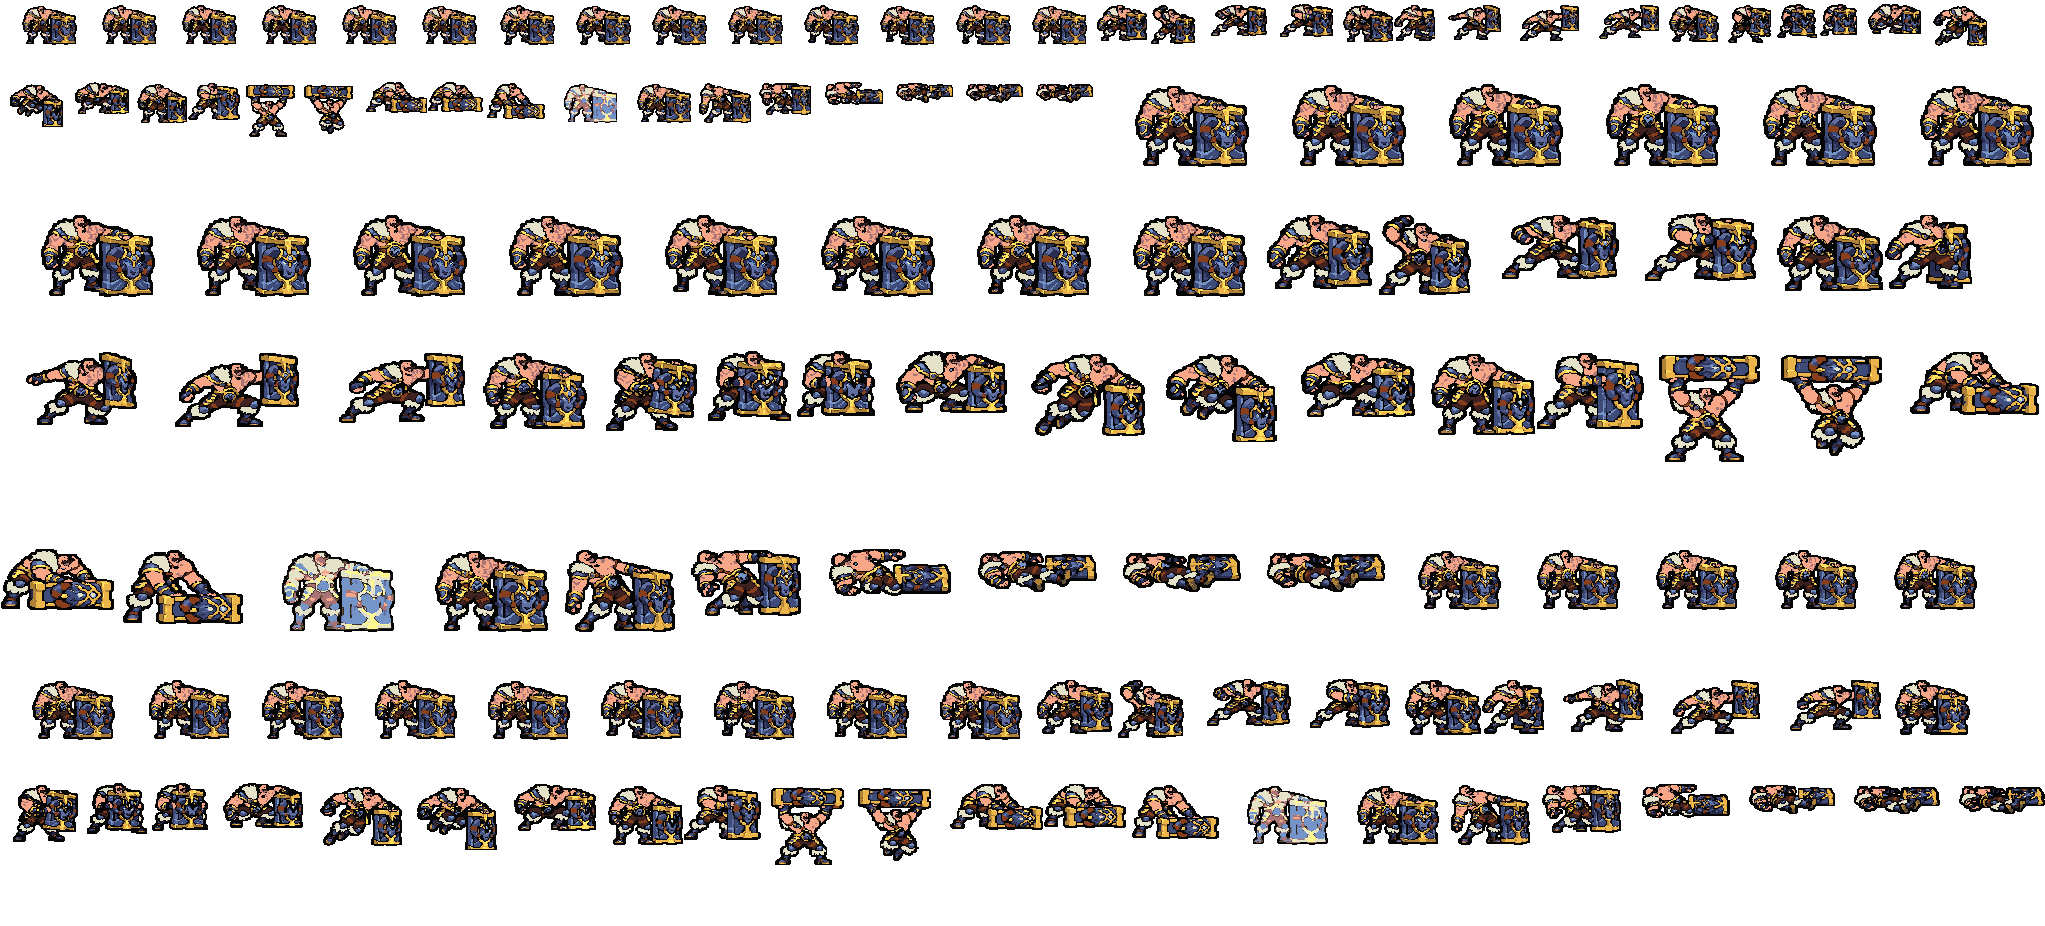
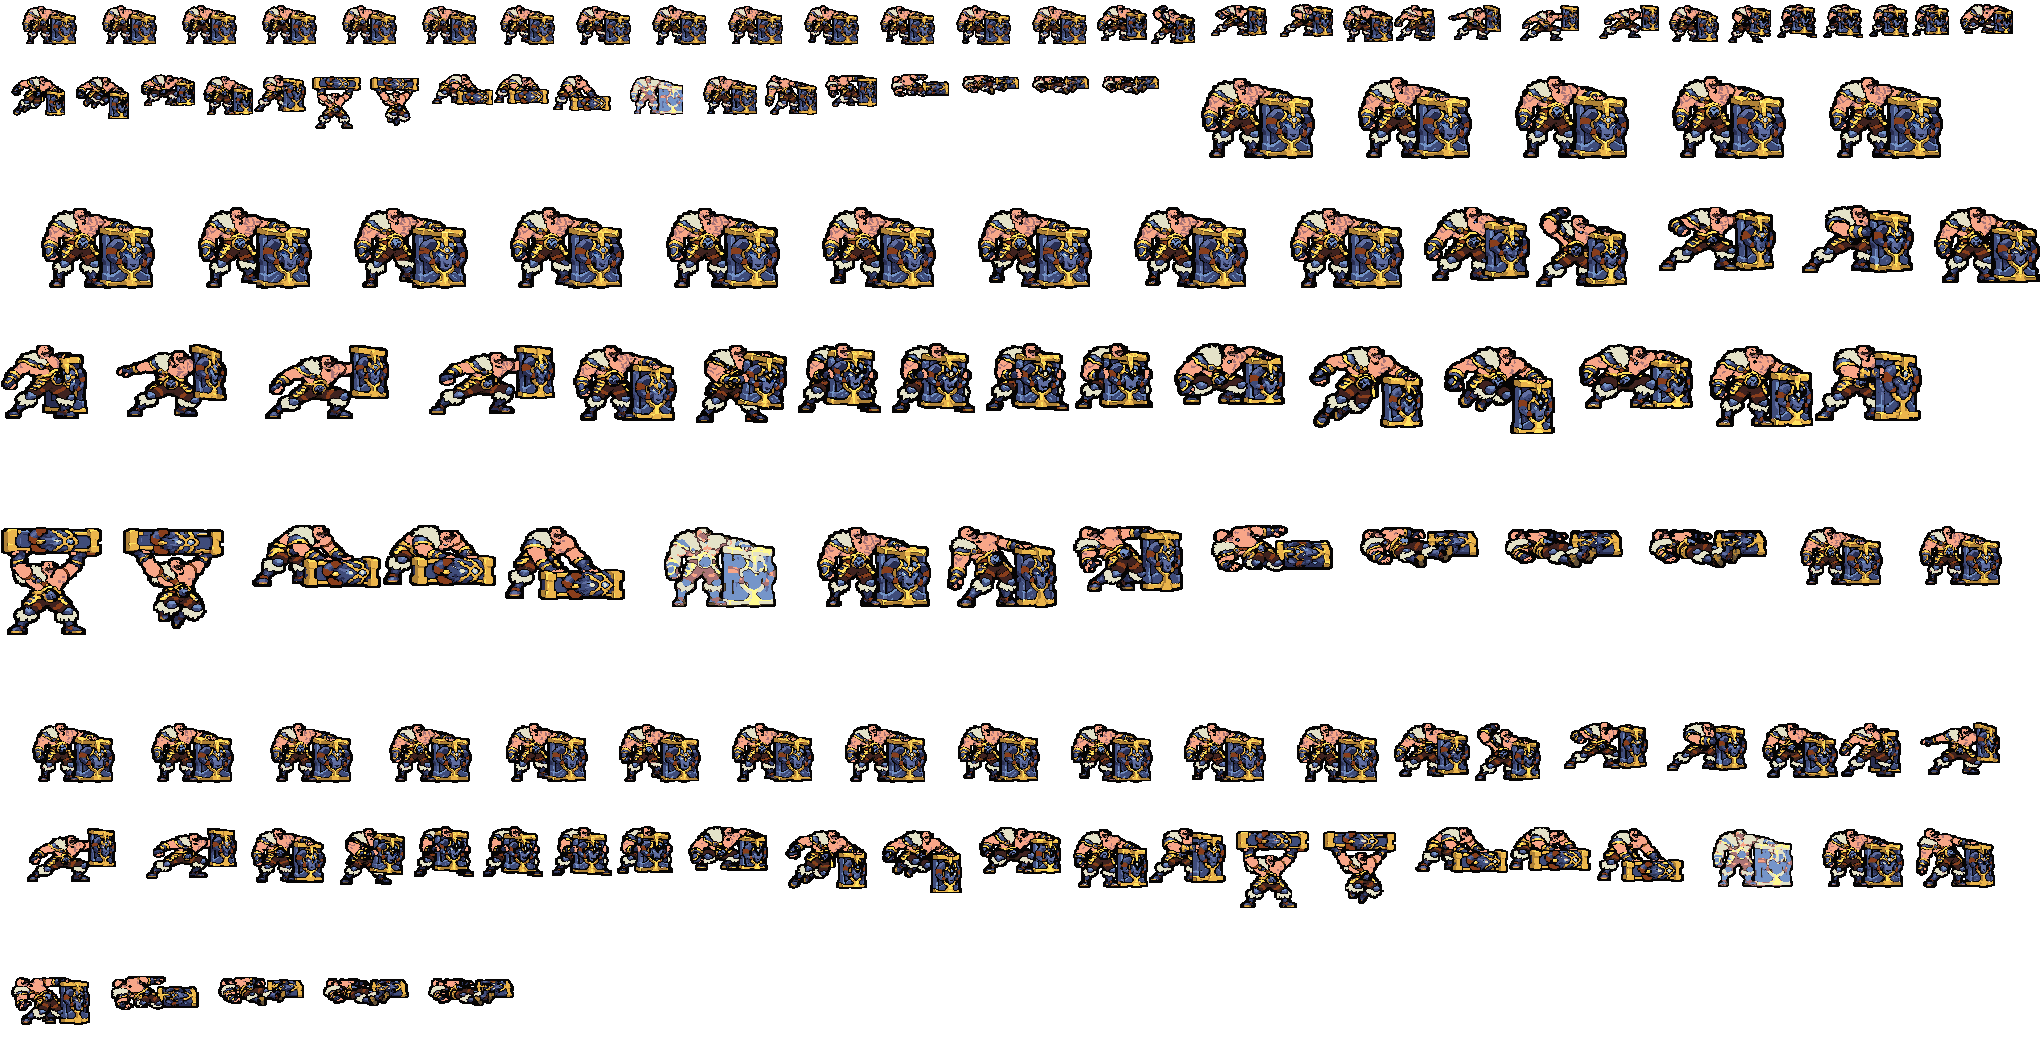
布隆动作补帧：E 坚不可摧 3 帧 3 姿势 -> 5 帧 5 姿势（盾从头和手后面往上滑、除了腿整个人往下沉；中间帧用他自己的原帧做）
用户：「还有有的动画感觉只有一帧 不如oppi的地方都要补 参考联盟的动画」，又说「动画你觉得少的地方就想办法补」「能改就想办法改 全都要改」，
现在「剩下的一批英雄也做了啊 都做完了装进去了再测」。对照表里 E 举盾 3 帧 0.4 秒（技能数据 e_anim 24 tick，效果都在第 0 tick，
帧上没有判定）。没有新画，没有交给 Codex，没有用图像模型。数法：「几帧，其中几个不同的姿势」。

- tools/art/rig_braum.py（干净的树上五步 rig -> ppu_restyle -> ppu_hd -> ppu_one -> hero_reels 逐文件复现，332325b6f）：
  E 的两张中间帧都用双手架盾那张（skill2_2）做，e_frames() 出五帧：
  提盾在身侧 80 | e_lifted：盾高 5 格、往身前落 60（盾整块从贴上去的造型头和两只手后面往上滑，手还握在原来画的位置；手挡住的
  那段盾边按手上方那格往下接 5 格，只有这几格不是原画；inbetween.repose 收描边）| 双手架盾 60 | e_sunk：除了腿和靴子
  （E_LEGS）整个人连盾往下沉 3 格、盖在腿上 60（蹲到一半，没有一格是补画的）| 撑住 140，一共还是 400。
  sealed()：外描边加粗（thick）会围住的 1 格小缝先并进描边。每帧核对：抬盾那张除了盾逐格没变，下沉那张移动的部分一格没丢
- tools/art/ppu_restyle.py：只改布隆那一项，加 palette_fit={"skill2": "braum/skill2_palette_orig"}——画风统一的 crisp
  调色板还按原来那三张 E 取（参考条 assets/source/braum/skill2_palette_orig.png / .json = 上一次提交里 orig 的 E 条），
  不加的话调色板跟着新帧变，待机、跑、Q、W、R 的颜色全都会挪一点
- tools/art/hero_reels.json：布隆的待机剪 E 的 [0, 1] -> [0, 2]（还是提盾、架盾那两张，待机逐帧没变）；选人卡片还是
  普攻、Q、E、R（35 -> 37 帧，一圈还是 15220 毫秒）
- 图集和 fanim 重新生成：2045x926 -> 2040x1044；其余 8 个标签（连同 hd_、lo_ 和待机共 27 个）逐帧像素、时长都没变；
  选人格子用的那张 1.64 -> 1.75 MiB
- docs/heroes/league_braum.md「开发记录」加一行

不满意的地方：E 只多了盾的上下和身体的下沉，两张中间帧都是同一张画（skill2_2）挪出来的；抬盾那张盾底和远侧靴子之间的空隙被加粗的
外描边连成一块黑（像盾下的影子）；提盾（skill2_1）到落盾那一下身体一次蹲下 14 格（那 80 毫秒分不出两张 50 毫秒以上的帧）。

查过：hero_reels --check --hero braum（0）；新旧图集逐帧对比（compare_sheets：27 个标签逐帧没变，E 总长 400 不变）；
sheet_audit（E 五帧没有针孔）；ui_sheets（bp 303.4 / 768 MiB）；league_viego_soul make_override 和 --check；
[…]

diff --git a/tools/art/rig_braum.py b/tools/art/rig_braum.py
@@ -38,6 +38,7 @@ sys.path.insert(0, os.path.join(ROOT, ".claude", "skills", "tfm2-hero-mod", "scr
 sys.path.insert(0, HERE)
 import strips as G  # noqa: E402
 import import_braum_strips as I  # noqa: E402
+import inbetween as IB  # noqa: E402
 
 PPU = 121 / 42                    # 2.881: the design's 121 rows = 42 game rows
 FEET = 11                         # 1x rows from the pivot down to the soles (the pack's 128-canvas heroes)
@@ -209,8 +210,129 @@ def lower(hd):
     return out
 
 
+# E Unbreakable (skill2, 400 ms = the kit's e_anim 24 ticks, every effect at tick 0 - no tick on a frame): three drawn
+# frames - the shield lifted beside him (skill2_1), held in front with both hands (skill2_2), braced on the ground
+# (skill2_3). The user, 2026-11-14: 「有的动画感觉只有一帧 不如oppi的地方都要补 参考联盟的动画」; two in-betweens from
+# skill2_2 itself, nothing drawn: the shield on its way down in front of him (it is E_LIFT rows higher, sliding up
+# behind his head and his hands, which hold it where they are drawn) and the brace half way (all of him but the legs
+# E_SINK rows lower over them, the shield with him). The shield's top bar lies behind the pasted design head
+# (import_braum_strips.paste_head) and its edges under the hands: the squares a hand hides are the edge's stripe
+# continued from the square above the hand (the only squares not as drawn, E_LIFT rows over each hand).
+E_LIFT = 5
+E_SINK = 3
+E_SHIELD = [(102, 115, 157, 127), (100, 128, 155, 185), (97, 186, 156, 196), (97, 197, 139, 198)]   # boxes in skill2_2
+E_NEAR = (99, 135, 111, 156)      # the near hand on the shield's left edge (its skin, and the outline touching it)
+E_WRIST = (96, 138, 101, 156)     # the near bracer's end over the shield's outline
+E_FAR = (149, 138, 161, 157)      # the far hand round the shield's right edge (skin, its brown cuff, their outline)
+E_GLOVE = (157, 138, 161, 157)    # the far hand right of the shield's edge
+E_LEGS = [(64, 161, 99, 205), (155, 164, 166, 196), (141, 196, 166, 205)]   # what stays when he sinks: legs, boots
+E_SKIN = {(252, 174, 138), (237, 142, 115), (209, 118, 100), (171, 94, 84), (131, 86, 88), (237, 209, 204)}
+E_BROWN = {(149, 75, 39), (114, 56, 30), (77, 38, 22), (42, 26, 18), (65, 42, 43)}
+E_MS = IB.spans((80, 1), (120, 2), (200, 2, (60, 140)))     # skill2_1 | lifted, skill2_2 | sinking, skill2_3
+
+
+def _box(shape, x0, y0, x1, y1):
+    m = np.zeros(shape[:2], bool)
+    m[y0:y1 + 1, x0:x1 + 1] = True
+    return m
+
+
+def _colours(a, cols):
+    m = np.zeros(a.shape[:2], bool)
+    for c in cols:
+        m |= (a[..., :3] == np.array(c)).all(-1)
+    return m & (a[..., 3] > 0)
+
+
+def design_head_at(a):
+    """The mask of the design's head where import_braum_strips pasted it on frame a (every square of it as pasted)."""
+    p, m = I.head_patch(I.load(I.DESIGN))
+    h, w = m.shape
+    for y in range(a.shape[0] - h):
+        for x in range(a.shape[1] - w):
+            if ((a[y:y + h, x:x + w] == p).all(-1) | ~m).all():
+                out = np.zeros(a.shape[:2], bool)
+                out[y:y + h, x:x + w] = m
+                return out
+    raise SystemExit("rig_braum: the design's head is not on this frame")
+
+
+def e_front(a):
+    """skill2_2's parts drawn over the shield: the head and the two hands."""
+    op = a[..., 3] > 0
+    dark = (a[..., :3].astype(int).sum(-1) < 40) & op
+    ring = np.ones((3, 3), bool)
+    skin, brown = _colours(a, E_SKIN), _colours(a, E_BROWN)
+    near = _box(a.shape, *E_NEAR) & skin
+    near |= _box(a.shape, *E_NEAR) & dark & ndimage.binary_dilation(near, structure=ring)
+    near |= _box(a.shape, *E_WRIST) & op
+    far = _box(a.shape, *E_FAR) & (skin | brown)
+    far |= _box(a.shape, *E_FAR) & dark & ndimage.binary_dilation(far, structure=ring)
+    far |= _box(a.shape, *E_GLOVE) & op
+    return design_head_at(a), near, far
+
+
+def sealed(a, most=3):
+    """Gaps of at most `most` squares that the thick outer outline (thick) would close in - a moved part next to a leg
+    leaves one - taken into the outline here."""
+    op = a[..., 3] > 0
+    grown = thick(a)[..., 3] > 0
+    lab, n = ndimage.label(ndimage.binary_fill_holes(grown) & ~grown)
+    out = a.copy()
+    for j in range(1, n + 1):
+        hole = lab == j
+        if hole.sum() <= most and not (hole & op).any():
+            out[hole, :3] = OUTLINE
+            out[hole, 3] = 255
+    return out
+
+
+def e_lifted(a, k):
+    """skill2_2 with the shield k rows higher, behind the head and the hands (they stay as drawn)."""
+    head, near, far = e_front(a)
+    front = head | near | far
+    shield = np.zeros(a.shape[:2], bool)
+    for b in E_SHIELD:
+        shield |= _box(a.shape, *b)
+    shield &= (a[..., 3] > 0) & ~front & ~_colours(a, I.FUR)
+    layer = np.zeros_like(a)
+    layer[shield] = a[shield]
+    for x in range(a.shape[1]):             # the edge under a hand: the square above it continued k rows down
+        col = near[:, x] | far[:, x]
+        for y in np.nonzero(col)[0]:
+            if not col[y - 1] and shield[y - 1, x]:
+                for j in range(k):
+                    if col[y + j]:
+                        layer[y + j, x] = a[y - 1, x]
+    moves = [(shield, IB.moved(layer, 0, -k), "over")] + [(m, (0, 0), "over") for m in (head, near, far)]
+    out = IB.repose(a, moves, OUTLINE)
+    keep = (a[..., 3] > 0) & ~shield & ~front     # nothing but the shield moved
+    if not IB.kept(a, out, only=keep & ~IB.moved(layer, 0, -k)[..., 3].astype(bool)) or not IB.kept(a, out, only=front):
+        raise SystemExit("rig_braum: E's lifted shield changed something besides the shield")
+    return out
+
+
+def e_sunk(a, k):
+    """skill2_2 with all of him but the legs (E_LEGS) k rows lower, over the legs."""
+    legs = np.zeros(a.shape[:2], bool)
+    for b in E_LEGS:
+        legs |= _box(a.shape, *b)
+    up = (a[..., 3] > 0) & ~legs
+    out = IB.repose(a, [(up, (0, k), "over")], OUTLINE)
+    if not IB.kept(IB.moved(np.where(up[..., None], a, 0).astype(np.uint8), 0, k), out):
+        raise SystemExit("rig_braum: E's sinking frame lost a square of him")
+    return out
+
+
+def e_frames(load, fr):
+    """skill2: skill2_1, the shield lifted, skill2_2, sinking, skill2_3 (E_MS)."""
+    (n1, _), (n2, _), (n3, _) = fr["skill2"]
+    s1, s2, s3 = load(n1), load(n2), load(n3)
+    return list(zip((s1, sealed(e_lifted(s2, E_LIFT)), s2, sealed(e_sunk(s2, E_SINK)), s3), E_MS))
+
+
 def actions():
-    """{tag: [(hd canvas, ms)]}: the imported frames, the idle breathing."""
+    """{tag: [(hd canvas, ms)]}: the imported frames, the idle breathing, E's in-betweens."""
     fr = json.load(open(os.path.join(FRAMES, "frames.json"), encoding="utf-8"))
     load = lambda n: np.asarray(Image.open(os.path.join(FRAMES, n)).convert("RGBA")).copy()
     out = {}
@@ -223,6 +345,7 @@ def actions():
     out["run"] = [(walk_frame(idle, n_, f_, r_), WALK_MS) for n_, f_, r_ in WALK]
     for tag in ("attack", "skill", "skill2", "w_leap", "ult", "hit", "dead"):
         out[tag] = [(load(n), t) for n, t in fr[tag]]
+    out["skill2"] = e_frames(load, fr)
     return out
 
 

diff --git a/tools/art/ppu_restyle.py b/tools/art/ppu_restyle.py
@@ -83,7 +83,10 @@ RESTYLE = {
     # = 2.9 -> 3, 11.5 x 1.98 x (1 / 0.95 - 1 / 1.05) = 2.3 -> 2; faces x 1.00 / 1.15 and x 0.95 / 1.05 about the soles
     # then (game 0.6.4, 2026-10-14) 「铁男模型太小」「铁男到110%吧」: Mordekaiser 110 % - 11 x 2.0 x (1 / 1.10 - 1 / 1.15)
     # = 0.9 -> 1 square down from the 115 % frames, face (1, -27) x 1.10 about the soles
+    # palette_fit (2026-11-14, E's in-betweens from his own frames): the crisp palette still fit on E's three drawn frames
+    # as they were (rig_braum.py's orig strip before them), so no other frame of his changes colour
     "braum": dict(body_only=True, head=1.0, wide=1.2, short=0.94, edge=0, ppu=1.98, crisp={},
+                  palette_fit={"skill2": "braum/skill2_palette_orig"},
                   lift=4 * 2.881 / 1.98 - 1e-6, lift_sq=-2, face_to=(2, -40)),  # (a hair under: the pivot's row keeps its square)
     # 「铁男的走路步伐感觉有点大啊」: Codex's run had the soles 42 and 47.5 game px apart in its two striding frames (the
     # idle's 31), brought together here (narrow) until 2026-10-22; the run rig_mordekaiser.py draws since (「铁男的走路也要

diff --git a/docs/heroes/league_braum.md b/docs/heroes/league_braum.md
@@ -89,6 +89,7 @@
 | 特效 | Codex 生图的 18 张（用户贴来的两张总览图，`import_braum.py` 按卡萨丁的做法切格：每个特效一个缩放、颜色贴回冰蓝 / 霜白 / 金色三套配色；红色方的对称逐格检查：Q 的冰和 R 的冰浪上下对称，其余左右对称）：`league_braum_fx` 盾击打中、层数标记、眩晕雪花、冰壳碎开、追加伤害、Q 的冰 / 打中 / 脚下结冰、举盾寒气、盾后队友的盾牌徽记、W 起跳雪雾 / 落地冰环 / 护甲冰环、R 击飞；`league_braum_big` 举盾冰壳、R 砸地冲击波、冰浪、裂隙。W 的护甲加成两人共用一张，R 裂隙里的减速借 Q 的脚下结冰 |
 | 音效 | 英雄联盟的音效和配音（`tools/lol/extract_braum.py`）：盾击 / 打中、被动眩晕、Q 甩出 / 打中、E 举盾、W 起跳 / 落地、R 砸地 / 击飞；Q、W、E、R 各用他自己的技能台词（片段名 `league_braum_sfx_vo_*`，和声音名不同）。版权属于 Riot Games，**不提交到仓库**，按下面的命令在本地生成 |
 | 图标 | 官方技能图标（Q 寒冬之咬 / E 坚不可摧 / R 冰川裂隙，另有 W 挺身而出、被动），从本地客户端提取，缩到 64×64 |
+| 动作补帧（2026-11-14） | 用户：「还有有的动画感觉只有一帧 不如oppi的地方都要补 参考联盟的动画」，又说「动画你觉得少的地方就想办法补」「能改就想办法改 全都要改」。对照表里 E「坚不可摧」举盾只有 3 帧（3 个姿势）0.4 秒（技能数据的 24 tick，效果都在第 0 tick，帧上没有判定）。没有新画，也没交给 Codex：两张中间帧都用他自己双手架盾那张（skill2_2）做（[`tools/art/rig_braum.py`](../../tools/art/rig_braum.py) 的 `e_lifted`、`e_sunk`，[`tools/art/inbetween.py`](../../tools/art/inbetween.py) 的 `repose`），每帧核对动的部分以外逐格不变。下面写的是「几帧，其中几个不同的姿势」。**E 坚不可摧** 3 帧（3 个姿势）→ 5 帧，其中 5 个：盾提在身侧 80 毫秒；盾往身前落、还高 5 格 60（盾从头和两只手后面往上滑，手还握在原来画的位置；手挡住的那段盾边按手上方那格往下接，只有这几格不是原画）；双手架盾 60；除了腿整个人连盾往下沉 3 格（蹲到一半）60；撑住 140，一共还是 400 毫秒。头和盾都是原来那张，没缩放。画风统一时取调色板还按原来那三张 E（[`ppu_restyle.py`](../../tools/art/ppu_restyle.py) RESTYLE 的 `palette_fit`，参考条 `assets/source/braum/skill2_palette_orig.png`），所以别的动作一格颜色都没变。技能数据没改；待机、跑、普攻、Q、W、R、受击、阵亡逐帧没变。每帧 3 倍、手和盾底 10 倍看过。待机剪的还是提盾、架盾那两张（`hero_reels.json` 的 [0, 1] 改成 [0, 2]，待机逐帧没变），选人卡片还是普攻、Q、E、R（35 → 37 帧，一圈还是 15220 毫秒）。图集 2045×926 → 2040×1044，选人格子用的那张 1.64 → 1.75 MiB。游戏里还没看过 |
 
 重新生成（素材来自本机的英雄联盟客户端，音频不进仓库）：
 
